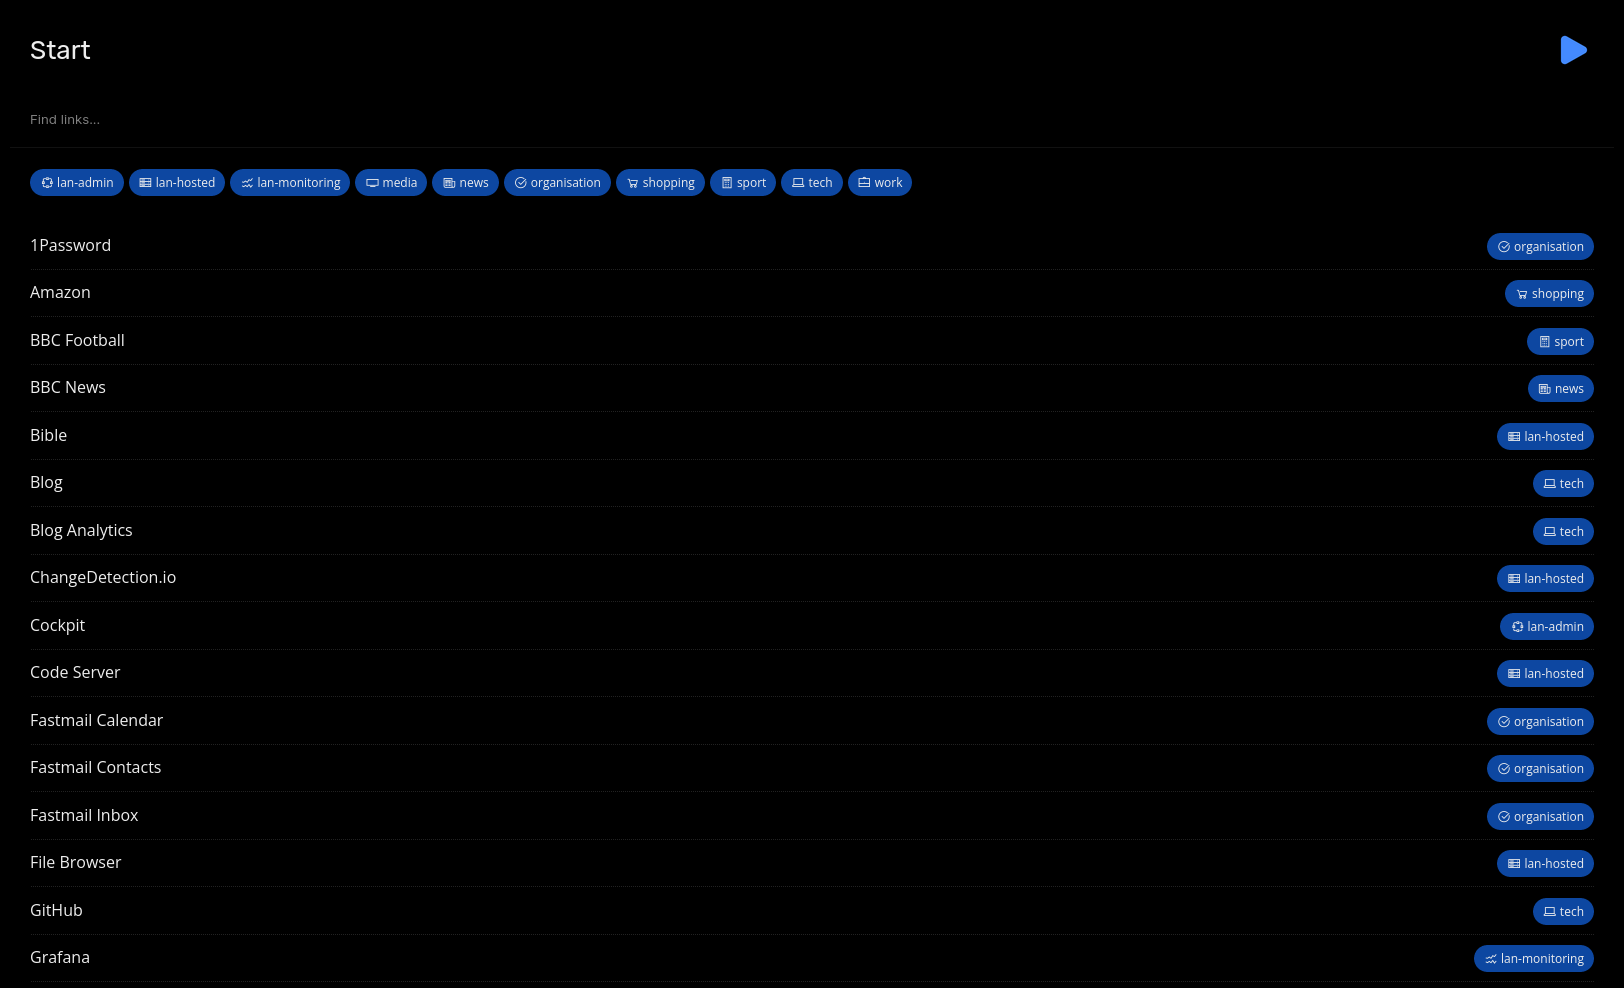
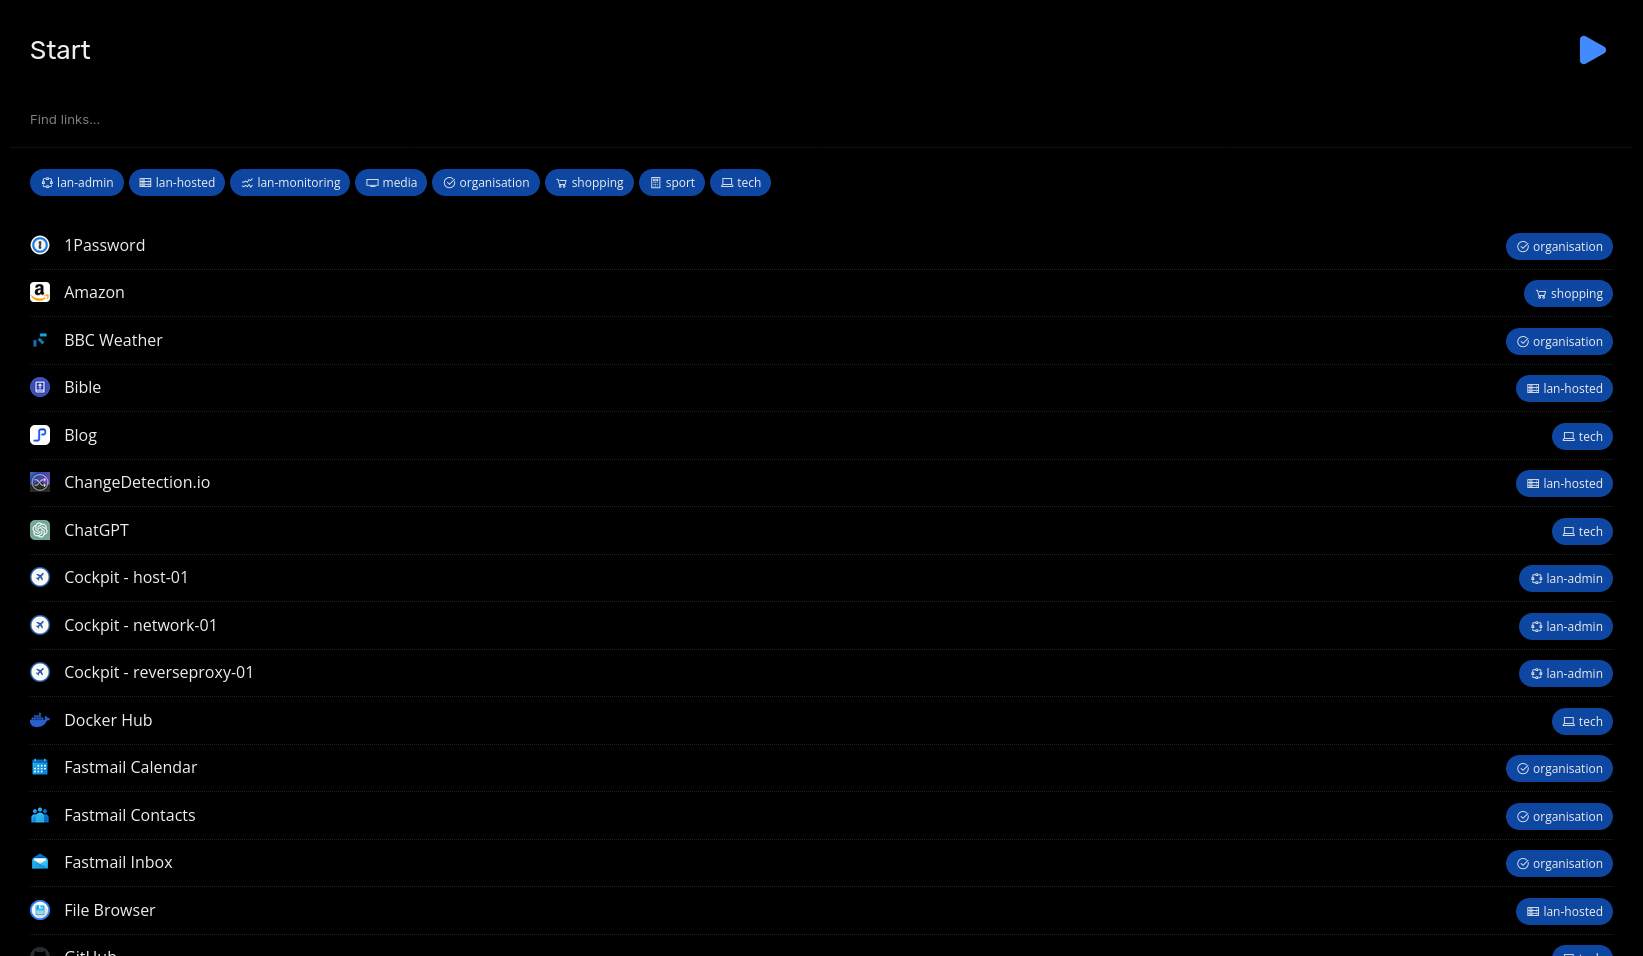
Update README and examples

diff --git a/README.md b/README.md
@@ -34,13 +34,18 @@ curl "https://${TYPESENSE_SERVER}/keys" \
 
 The `links_template.yml` should be renamed to `links.yml` and serves as a list of bookmarks to index and add to the webpage. It's easy enough to add links, just follow the format below.
 
-```yml
-- title: Brave Search
+```yaml
+---
+- number: 1
+  title: Brave Search
   url: https://search.brave.com
+  icon: https://cdn.search.brave.com/serp/v2/_app/immutable/assets/favicon-32x32.86083f5b.png
   category: organisation
   tags: [search]
-- title: Fastmail Inbox
+- number: 2
+  title: Fastmail Inbox
   url: https://app.fastmail.com
+  icon: https://img.icons8.com/?id=OumT4lIcOllS&format=png
   category: organisation
   tags: [email, mail]
 ```
